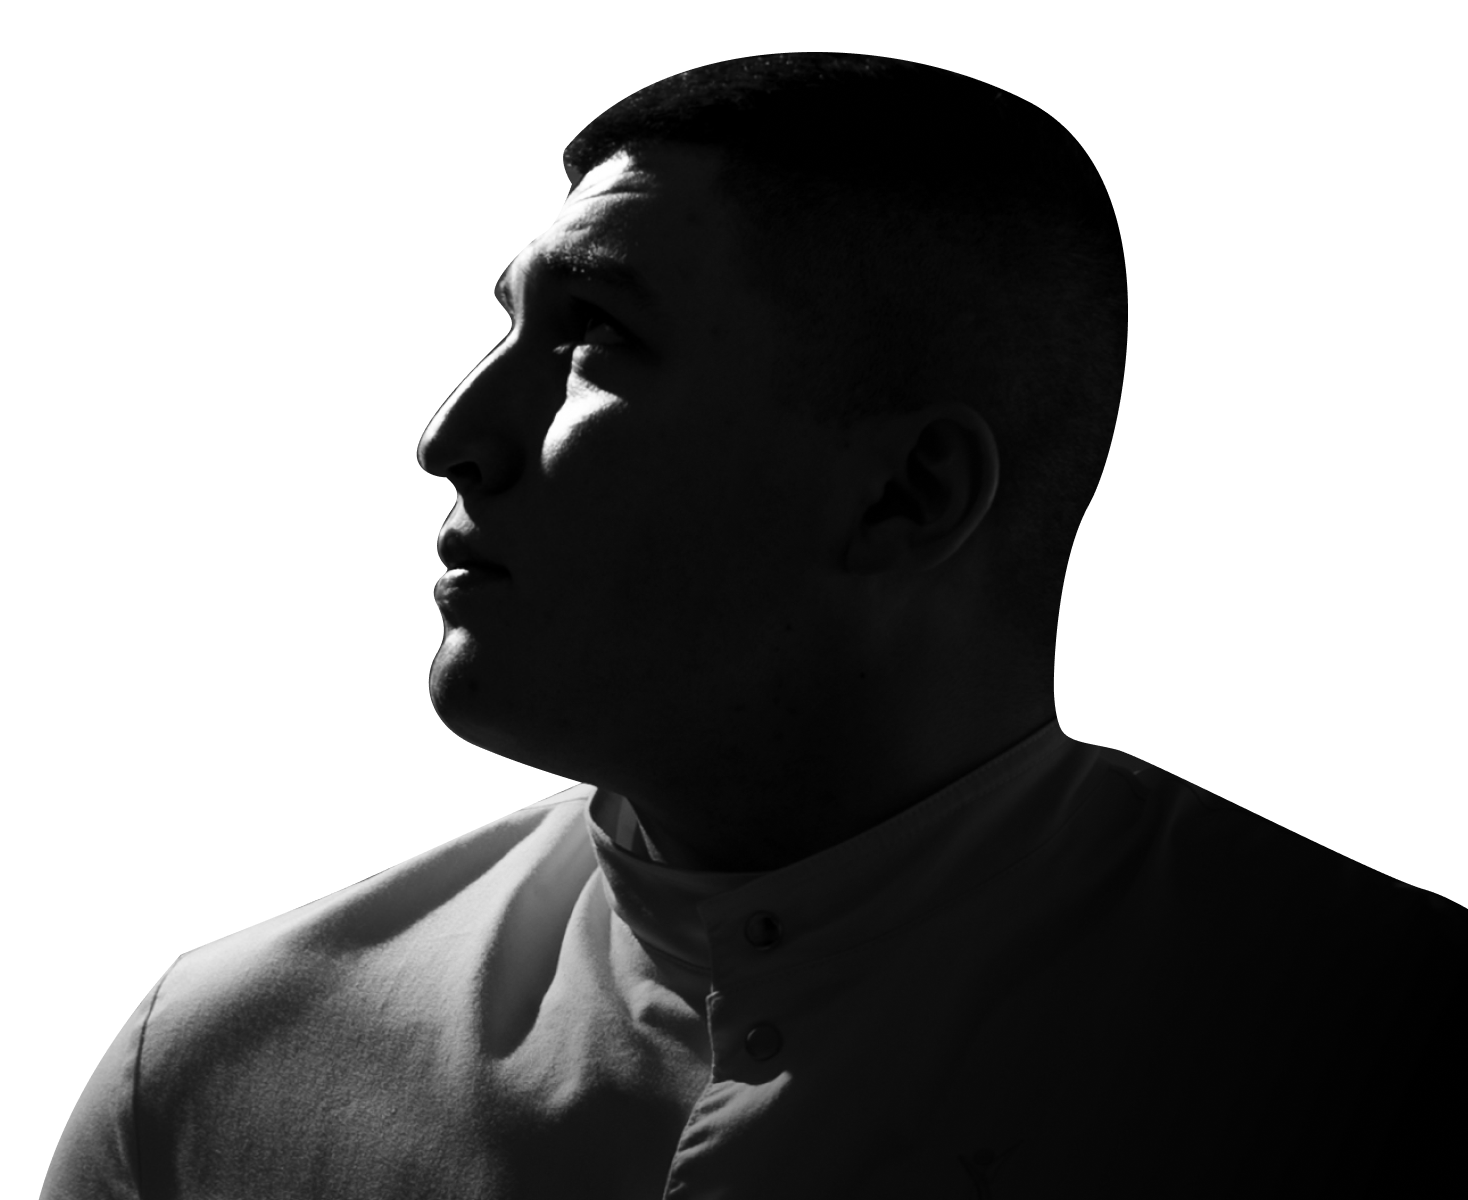
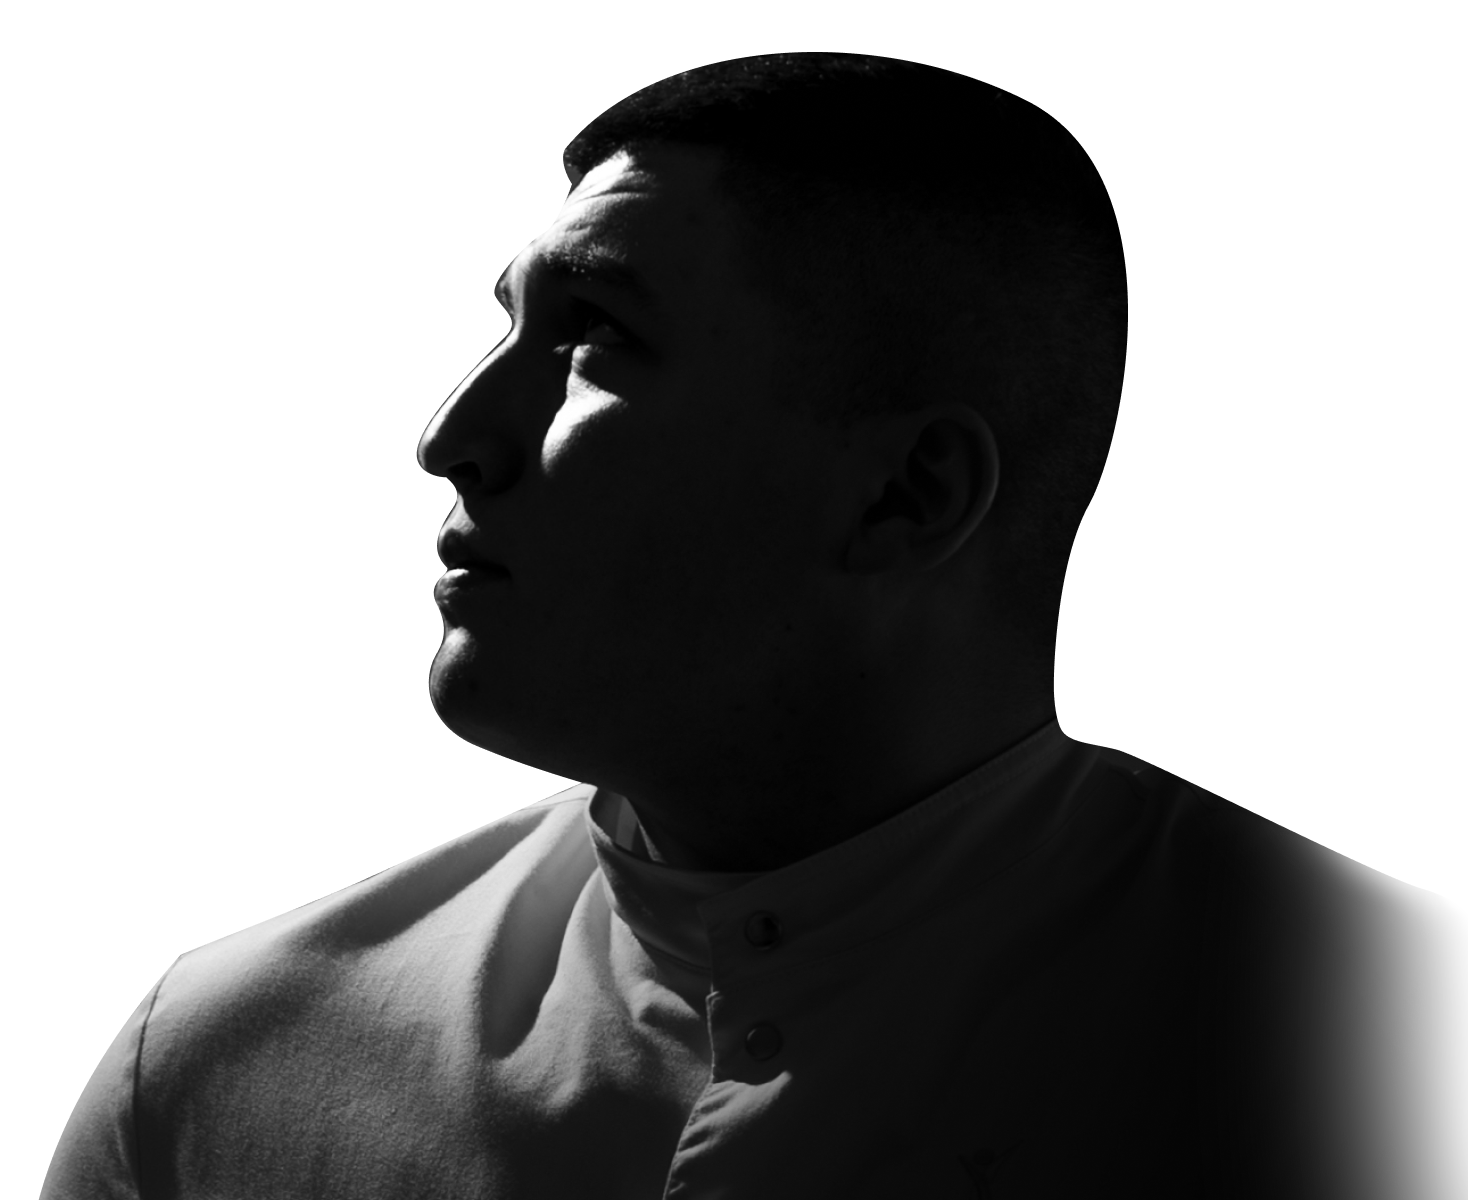
header work

Changed region(s): [[0.8583, 0.6783, 1.0, 1.0]]

diff --git a/components/Header.vue b/components/Header.vue
@@ -12,64 +12,96 @@
                     Бесплатная консультация
                 </div>
             </div>
-            <img src="@/assets/img/avatar.png" class="header__avatar" />
+            <img src="@/assets/img/avatar.webp" class="header__avatar" />
         </div>
     </div>
 </template>
 
-<script setup lang="ts">
-</script>
+<script setup lang="ts"></script>
 
 <style lang="scss">
 .header {
-    height: 1px;
-    min-height: 100vh;
-    background: linear-gradient(99.51deg, #23252c 18.79%, #000000 100%);
+    display: flex;
+    flex-direction: column;
 
     &__container {
+        flex: 1;
         display: flex;
-        align-items: center;
-        height: 100%;
+        flex-direction: column;
+        justify-content: flex-end;
+
+        @include desktop {
+            width: 100%;
+            justify-content: center;
+        }
     }
 
     &__content {
         position: relative;
-        width: 100%;
-    }
 
-    &__info {
-        position: absolute;
-        left: 0;
-        bottom: -34px;
-        display: flex;
-        align-items: center;
-        color: $white;
-        font-family: sans-serif;
-        font-size: 16px;
-        line-height: 18px;
-        font-weight: 700;
-        transform: translateY(100%);
-
-        .dot {
-            margin: 0 12px;
+        @include desktop {
+            width: 100%;
         }
     }
 
     &__caption {
         font-family: serif;
         color: $white;
-        font-size: 68px;
-        line-height: 69px;
+        font-size: 38px;
+        line-height: 46px;
         font-weight: 700;
         text-transform: uppercase;
+        margin-bottom: 30px;
+
+        @include desktop {
+            margin-bottom: unset;
+            font-size: 68px;
+            line-height: 69px;
+        }
+    }
+
+    &__info {
+        color: $white;
+        font-family: sans-serif;
+        font-size: 16px;
+        line-height: 18px;
+        font-weight: 700;
+
+        @include tablet {
+            display: flex;
+            align-items: center;
+        }
+
+        @include desktop {
+            position: absolute;
+            left: 0;
+            bottom: -34px;
+            transform: translateY(100%);
+        }
+
+        .dot {
+            margin: 12px 0;
+
+            @include desktop {
+                margin: 0 12px;
+            }
+        }
     }
 
     &__avatar {
-        position: absolute;
-        right: 0;
-        bottom: 0;
-        height: 80%;
-        max-height: 750px;
+        max-width: 100%;
+
+        @include tablet {
+        }
+
+        @include desktop {
+            position: absolute;
+            right: 0;
+            bottom: 0;
+            z-index: -1;
+            height: 80%;
+            max-height: 750px;
+        }
     }
 }
 </style>

diff --git a/pages/index.vue b/pages/index.vue
@@ -1,7 +1,9 @@
 <template>
     <div class="main">
-        <NavBar class="container" />
-        <Header />
+        <div class="main__header-wrapper">
+            <NavBar class="container" />
+            <Header />
+        </div>
     </div>
 </template>
 
@@ -18,13 +20,33 @@
 .main {
     position: relative;
     min-height: 200vh;
-    
+
+    &__header-wrapper {
+        display: flex;
+        flex-direction: column;
+        // height: 1px;
+        min-height: 100vh;
+        background: linear-gradient(99.51deg, #23252c 18.79%, #000000 100%);
+
+        // @include desktop {
+        //     display: block;
+        // }
+    }
+
     .navbar {
-        position: absolute;
-        top: 0;
-        left: 50%;
-        transform: translateX(-50%);
         width: 100%;
+
+        @include desktop {
+            position: absolute;
+            top: 0;
+            left: 50%;
+            transform: translateX(-50%);
+            width: 100%;
+        }
+    }
+
+    .header {
+        flex: 1;
     }
 }
 </style>

diff --git a/assets/styles/btn.scss b/assets/styles/btn.scss
@@ -5,7 +5,7 @@
     font-size: 16px;
     line-height: 56px;
     font-weight: 700;
-    transition: all .2s ease;
+    transition: all .05s ease;
     cursor: pointer;
     user-select: none;
     border-radius: 2px;
@@ -13,7 +13,7 @@
 
     &:hover {
         background-color: $black;
-        color: white;
+        color: white !important;
     }
 
     &--outlined {
@@ -22,7 +22,7 @@
 
         &:hover {
             background-color: $accent;
-            color: white;
+            color: white !important;
         }
     }
 
@@ -33,7 +33,7 @@
     &--disabled {
         background-color: $grayMedium;
         border-color: $grayMedium;
-        color: white;
+        color: white !important;
         pointer-events: none;
     }
 }

diff --git a/components/NavBar.vue b/components/NavBar.vue
@@ -71,6 +71,26 @@ const showSignUpPopup = () => {
     }
 
     &__link {
+        position: relative;
+
+        &::before {
+            content: '';
+            display: none;
+            position: absolute;
+            bottom: 0;
+            left: 0;
+            right: 0;
+            height: 2px;
+            transform: translateY(4px);
+            background-color: $white;
+        }
+
+        &:hover {
+            &::before {
+                display: block;
+            }
+        }
+        
         a {
             font-family: sans-serif;
             color: $white;

diff --git a/assets/styles/variables.scss b/assets/styles/variables.scss
@@ -1,13 +1,14 @@
-$lg: 1440;
-$xl: 1180;
+$lg: 1439.98;
+$xl: 1179.98;
 $md: 992.98;
 $sm: 767.98;
 $xs: 479.98;
 
 $widescreen: 'min-width:' + $lg + px;
-$desktop: 'min-width:' + $xl + px;
+$fullscreen: 'min-width:' + $xl + px;
+$desktop: 'min-width:' + $md + px;
 $tablet: 'min-width:' + $sm + px;
-$mobile: 'min-width:' + $md + px;
+$mobile: 'min-width:' + $xs + px;
 
 $white: white;
 $blackDark: #101111;

diff --git a/assets/styles/mixins.scss b/assets/styles/mixins.scss
@@ -16,6 +16,12 @@
     }
 }
 
+@mixin fullscreen {
+    @media ($fullscreen) {
+        @content;
+    }
+}
+
 @mixin widescreen {
     @media ($widescreen) {
         @content;
